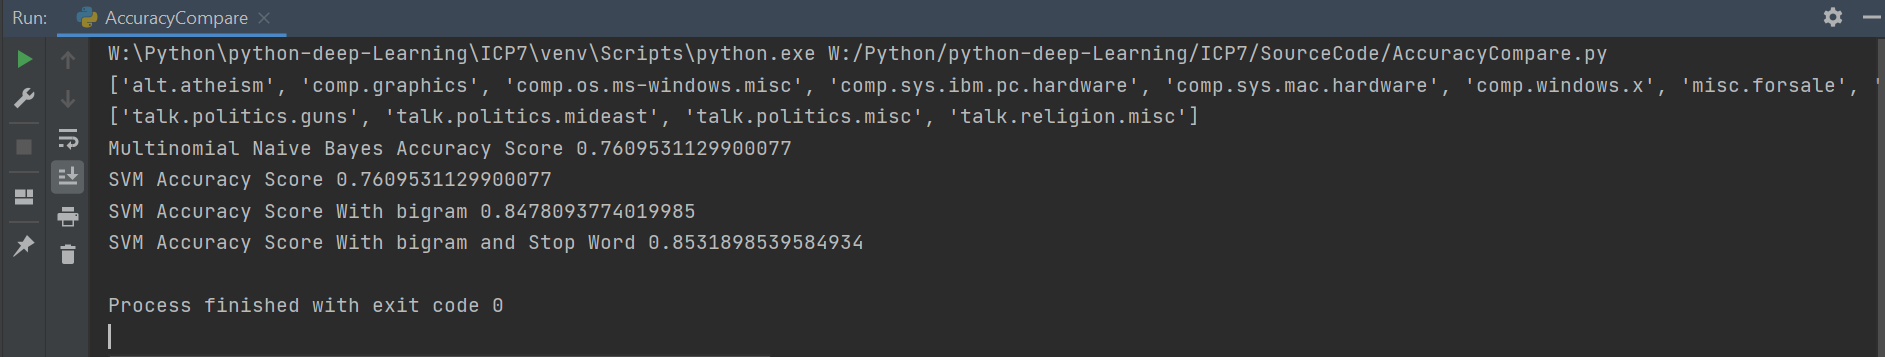
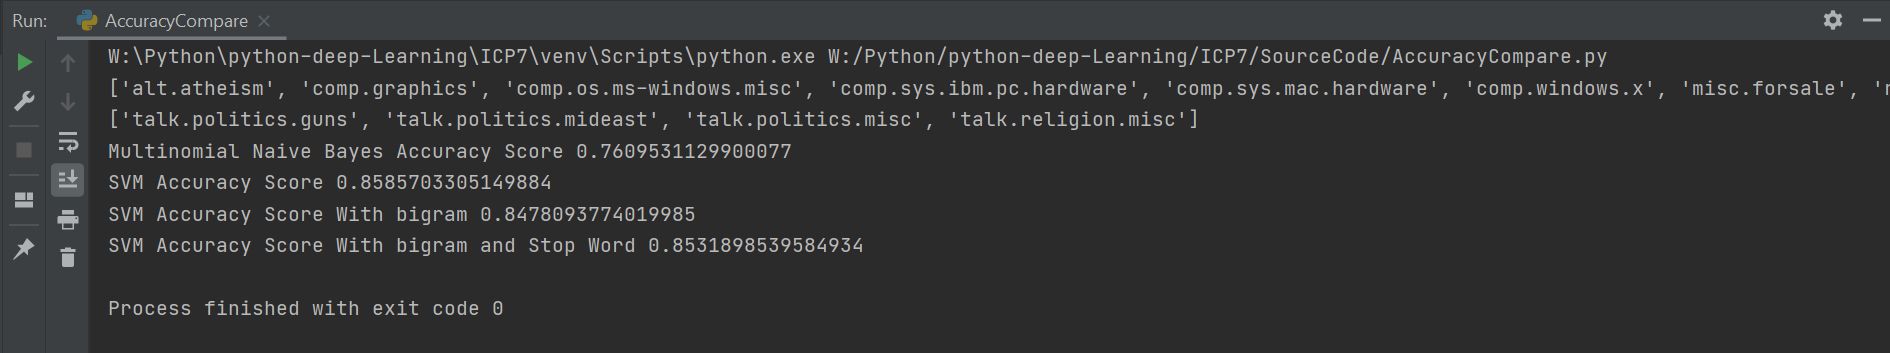
ICP7 Screenshots

diff --git a/ICP7/SourceCode/AccuracyCompare.py b/ICP7/SourceCode/AccuracyCompare.py
@@ -38,7 +38,7 @@ svc = SVC()
 svc.fit(X_train_tfidf, twenty_train.target)
 
 # Applying Prediction on the Test with SVC
-svc_pred = clf.predict(X_test_tfidf)
+svc_pred = svc.predict(X_test_tfidf)
 
 # Calculating Accuracy for SVC
 svc_score = metrics.accuracy_score(twenty_test.target, svc_pred)
